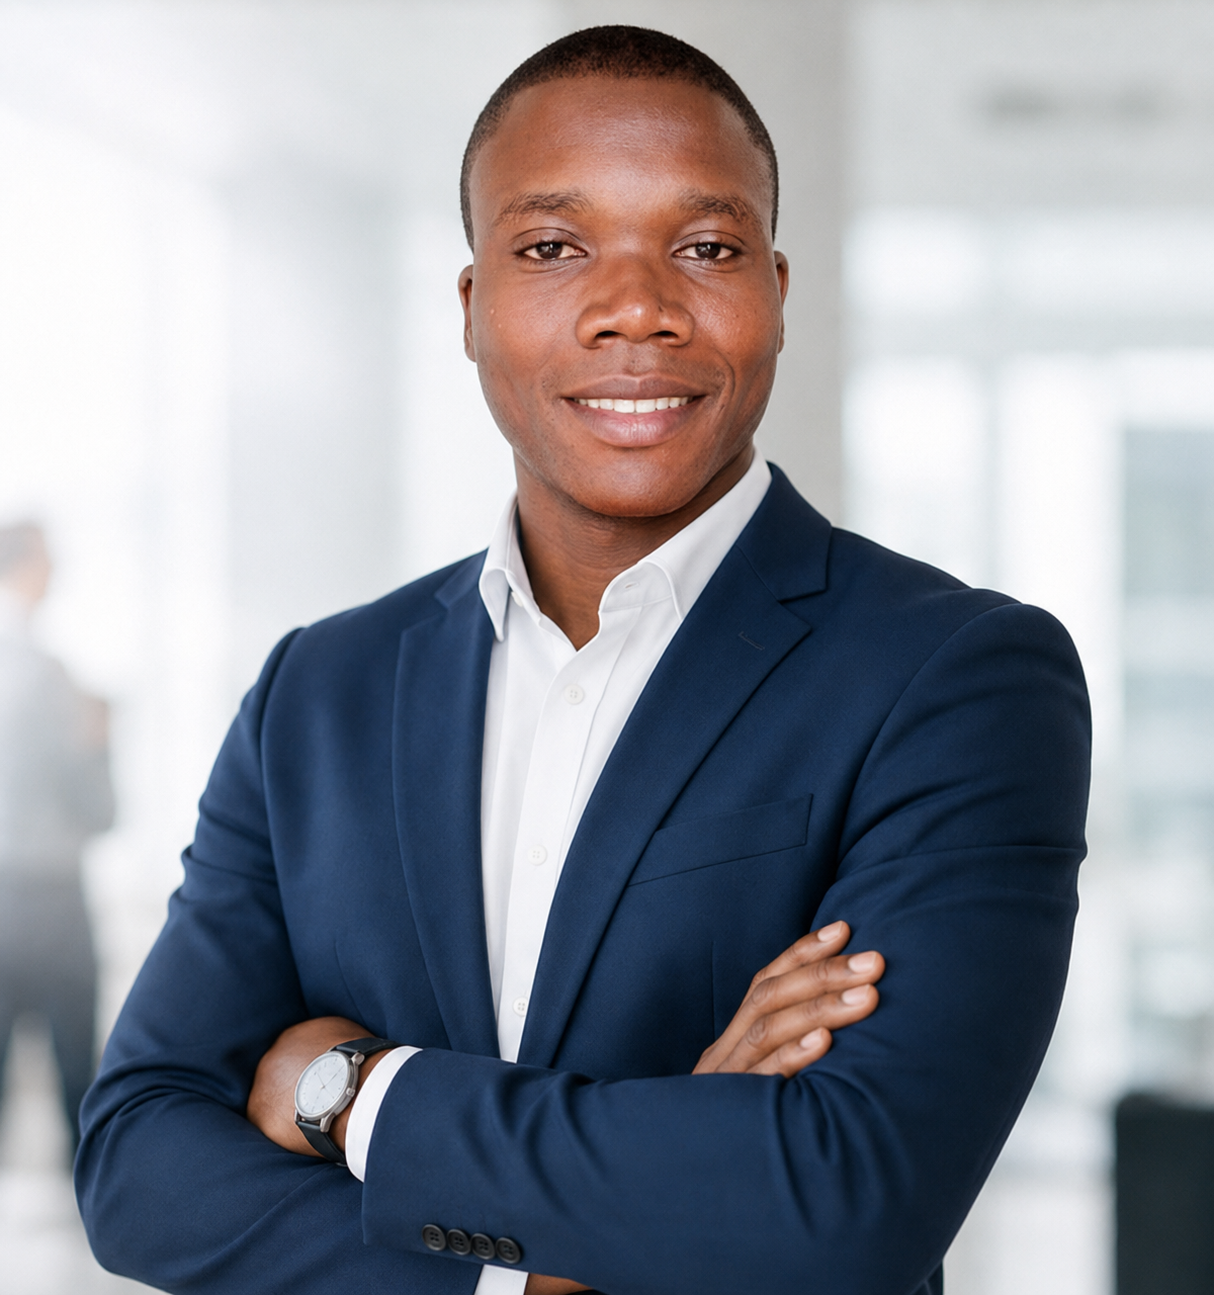
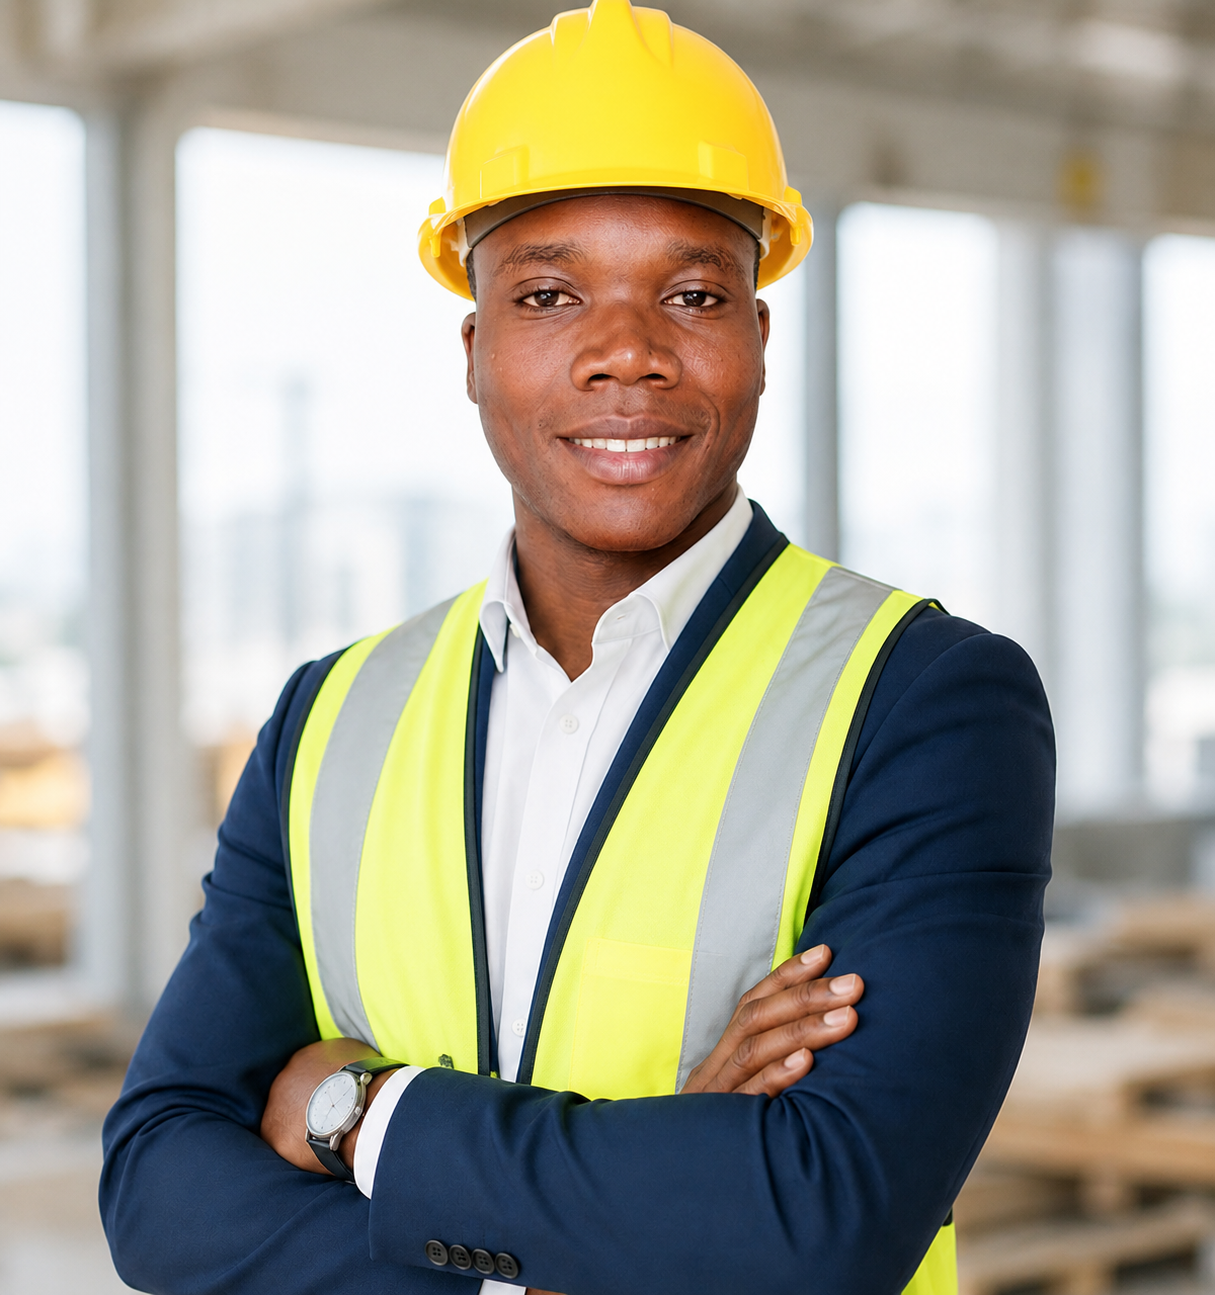
Add files via upload

diff --git a/dist/styles.css b/dist/styles.css
@@ -908,8 +908,67 @@ table td.center,.center{ text-align:center!important }
 .v41-project-table .project-number-cell,.v41-project-table .project-dates,.v41-project-table td.center,.v41-project-table .v41-project-actions-cell{text-align:center!important}
 .v41-project-table .project-dates{display:table-cell!important;white-space:normal!important}
 .v41-project-table .project-dates span,.v41-project-table .project-dates small{display:block;margin:1px 0;font-size:.69rem}
-.v41-project-table .project-actions{display:flex!important;flex-direction:column;align-items:stretch;justify-content:center!important;gap:4px!important;width:100%}
-.v41-project-table .project-actions .btn{width:100%;min-width:0;padding:5px 4px!important;font-size:.66rem!important;line-height:1.15;white-space:normal}
+.v41-project-table .project-actions{display:flex!important;flex-direction:row!important;flex-wrap:nowrap!important;align-items:center!important;justify-content:center!important;gap:3px!important;width:100%;min-width:0}
+.v41-project-table .project-actions .btn{flex:1 1 0!important;width:auto!important;min-width:0!important;padding:5px 2px!important;font-size:.58rem!important;line-height:1.15;white-space:nowrap!important}
 .v58-status-button{max-width:100%;border:1px solid #cadbd7;cursor:pointer;font:inherit;color:#174e47;white-space:normal;line-height:1.15}
 .v58-status-button:hover{background:#dcebe7}
-@media(max-width:1100px){.v41-projects-panel{padding:12px}.v41-project-table th,.v41-project-table td{padding:6px 3px!important;font-size:.62rem!important}.v41-project-table .project-actions .btn{font-size:.6rem!important;padding:4px 2px!important}.v41-project-table .project-dates span,.v41-project-table .project-dates small{font-size:.61rem}}
+@media(max-width:1100px){.v41-projects-panel{padding:12px}.v41-project-table th,.v41-project-table td{padding:6px 3px!important;font-size:.62rem!important}.v41-project-table .project-actions{gap:2px!important}.v41-project-table .project-actions .btn{font-size:.52rem!important;padding:4px 1px!important}.v41-project-table .project-dates span,.v41-project-table .project-dates small{font-size:.61rem}}
+
+/* ===== V60 — NOUVELLE PHOTO ET ARRIÈRE-PLAN UNIQUE DE L'ACCUEIL ===== */
+.auth-screen.landing-home{
+  position:relative;
+  isolation:isolate;
+  background:
+    linear-gradient(115deg,rgba(245,249,248,.94) 0%,rgba(245,249,248,.84) 38%,rgba(239,245,243,.78) 66%,rgba(235,242,240,.88) 100%),
+    url('/assets/global-bt-hero.png') center 20% / cover fixed no-repeat;
+}
+.auth-screen.landing-home::before{
+  content:"";
+  position:absolute;
+  z-index:-1;
+  inset:0;
+  pointer-events:none;
+  background:linear-gradient(to bottom,rgba(255,255,255,.08),rgba(236,244,241,.28));
+}
+.landing-shell{
+  position:relative;
+  z-index:1;
+}
+.landing-portrait-wrap{
+  background:rgba(244,249,247,.18);
+  border-radius:34px 34px 0 0;
+  box-shadow:0 20px 55px rgba(18,53,48,.14);
+}
+.landing-portrait-wrap::before{
+  display:none;
+}
+.landing-portrait{
+  width:100%;
+  height:100%;
+  object-fit:cover;
+  object-position:center 18%;
+  border-radius:34px 34px 0 0;
+  box-shadow:none;
+  filter:none;
+  -webkit-mask-image:linear-gradient(to bottom,#000 0,#000 92%,transparent 100%);
+  mask-image:linear-gradient(to bottom,#000 0,#000 92%,transparent 100%);
+}
+.landing-feature-card,
+.landing-auth-card,
+.landing-services{
+  background:rgba(255,255,255,.90);
+  -webkit-backdrop-filter:blur(9px);
+  backdrop-filter:blur(9px);
+}
+.landing-pill{
+  background:rgba(248,252,250,.88);
+  -webkit-backdrop-filter:blur(6px);
+  backdrop-filter:blur(6px);
+}
+@media(max-width:820px){
+  .auth-screen.landing-home{
+    background:
+      linear-gradient(rgba(245,249,248,.91),rgba(238,245,242,.91)),
+      url('/assets/global-bt-hero.png') center top / cover scroll no-repeat;
+  }
+}

diff --git a/public/styles.css b/public/styles.css
@@ -908,8 +908,67 @@ table td.center,.center{ text-align:center!important }
 .v41-project-table .project-number-cell,.v41-project-table .project-dates,.v41-project-table td.center,.v41-project-table .v41-project-actions-cell{text-align:center!important}
 .v41-project-table .project-dates{display:table-cell!important;white-space:normal!important}
 .v41-project-table .project-dates span,.v41-project-table .project-dates small{display:block;margin:1px 0;font-size:.69rem}
-.v41-project-table .project-actions{display:flex!important;flex-direction:column;align-items:stretch;justify-content:center!important;gap:4px!important;width:100%}
-.v41-project-table .project-actions .btn{width:100%;min-width:0;padding:5px 4px!important;font-size:.66rem!important;line-height:1.15;white-space:normal}
+.v41-project-table .project-actions{display:flex!important;flex-direction:row!important;flex-wrap:nowrap!important;align-items:center!important;justify-content:center!important;gap:3px!important;width:100%;min-width:0}
+.v41-project-table .project-actions .btn{flex:1 1 0!important;width:auto!important;min-width:0!important;padding:5px 2px!important;font-size:.58rem!important;line-height:1.15;white-space:nowrap!important}
 .v58-status-button{max-width:100%;border:1px solid #cadbd7;cursor:pointer;font:inherit;color:#174e47;white-space:normal;line-height:1.15}
 .v58-status-button:hover{background:#dcebe7}
-@media(max-width:1100px){.v41-projects-panel{padding:12px}.v41-project-table th,.v41-project-table td{padding:6px 3px!important;font-size:.62rem!important}.v41-project-table .project-actions .btn{font-size:.6rem!important;padding:4px 2px!important}.v41-project-table .project-dates span,.v41-project-table .project-dates small{font-size:.61rem}}
+@media(max-width:1100px){.v41-projects-panel{padding:12px}.v41-project-table th,.v41-project-table td{padding:6px 3px!important;font-size:.62rem!important}.v41-project-table .project-actions{gap:2px!important}.v41-project-table .project-actions .btn{font-size:.52rem!important;padding:4px 1px!important}.v41-project-table .project-dates span,.v41-project-table .project-dates small{font-size:.61rem}}
+
+/* ===== V60 — NOUVELLE PHOTO ET ARRIÈRE-PLAN UNIQUE DE L'ACCUEIL ===== */
+.auth-screen.landing-home{
+  position:relative;
+  isolation:isolate;
+  background:
+    linear-gradient(115deg,rgba(245,249,248,.94) 0%,rgba(245,249,248,.84) 38%,rgba(239,245,243,.78) 66%,rgba(235,242,240,.88) 100%),
+    url('/assets/global-bt-hero.png') center 20% / cover fixed no-repeat;
+}
+.auth-screen.landing-home::before{
+  content:"";
+  position:absolute;
+  z-index:-1;
+  inset:0;
+  pointer-events:none;
+  background:linear-gradient(to bottom,rgba(255,255,255,.08),rgba(236,244,241,.28));
+}
+.landing-shell{
+  position:relative;
+  z-index:1;
+}
+.landing-portrait-wrap{
+  background:rgba(244,249,247,.18);
+  border-radius:34px 34px 0 0;
+  box-shadow:0 20px 55px rgba(18,53,48,.14);
+}
+.landing-portrait-wrap::before{
+  display:none;
+}
+.landing-portrait{
+  width:100%;
+  height:100%;
+  object-fit:cover;
+  object-position:center 18%;
+  border-radius:34px 34px 0 0;
+  box-shadow:none;
+  filter:none;
+  -webkit-mask-image:linear-gradient(to bottom,#000 0,#000 92%,transparent 100%);
+  mask-image:linear-gradient(to bottom,#000 0,#000 92%,transparent 100%);
+}
+.landing-feature-card,
+.landing-auth-card,
+.landing-services{
+  background:rgba(255,255,255,.90);
+  -webkit-backdrop-filter:blur(9px);
+  backdrop-filter:blur(9px);
+}
+.landing-pill{
+  background:rgba(248,252,250,.88);
+  -webkit-backdrop-filter:blur(6px);
+  backdrop-filter:blur(6px);
+}
+@media(max-width:820px){
+  .auth-screen.landing-home{
+    background:
+      linear-gradient(rgba(245,249,248,.91),rgba(238,245,242,.91)),
+      url('/assets/global-bt-hero.png') center top / cover scroll no-repeat;
+  }
+}

diff --git a/public/index.html b/public/index.html
@@ -29,7 +29,7 @@
         <div id="features" class="landing-feature-grid">
           <article class="landing-feature-card"><span class="landing-feature-icon">↗</span><div><strong>Pilotage en temps réel</strong><small>Suivez l'avancement réel et les coûts de vos projets.</small></div></article>
           <article class="landing-feature-card"><span class="landing-feature-icon">▦</span><div><strong>Gestion complète</strong><small>Matériaux, métiers, fournisseurs et main-d'œuvre.</small></div></article>
-          <article class="landing-feature-card"><span class="landing-feature-icon">✓</span><div><strong>Données sécurisées</strong><small>Hébergement et sauvegardes automatiques.</small></div></article>
+          <article class="landing-feature-card"><span class="landing-feature-icon">✓</span><div><strong>Données sécurisées</strong><small>Hébergement Cloudflare et sauvegardes automatiques.</small></div></article>
           <article class="landing-feature-card"><span class="landing-feature-icon">▤</span><div><strong>Rapports & analyses</strong><small>Des rapports clairs pour de meilleures décisions.</small></div></article>
         </div>
 
@@ -70,7 +70,7 @@
           <div class="notice">Inscription automatique au <strong>Plan Free</strong> avec accès complet pendant 10 jours.</div>
           <button class="btn gold full">Créer mon espace</button>
         </form>
-        <div id="authMessage" class="message"></div><p class="version-mark">GLOBAL BT · Version 58.0.0</p>
+        <div id="authMessage" class="message"></div><p class="version-mark">GLOBAL BT · Version 60.0.0</p>
       </div>
     </div>
 

diff --git a/dist/index.html b/dist/index.html
@@ -70,7 +70,7 @@
           <div class="notice">Inscription automatique au <strong>Plan Free</strong> avec accès complet pendant 10 jours.</div>
           <button class="btn gold full">Créer mon espace</button>
         </form>
-        <div id="authMessage" class="message"></div><p class="version-mark">GLOBAL BT · Version 58.0.0</p>
+        <div id="authMessage" class="message"></div><p class="version-mark">GLOBAL BT · Version 60.0.0</p>
       </div>
     </div>
 
